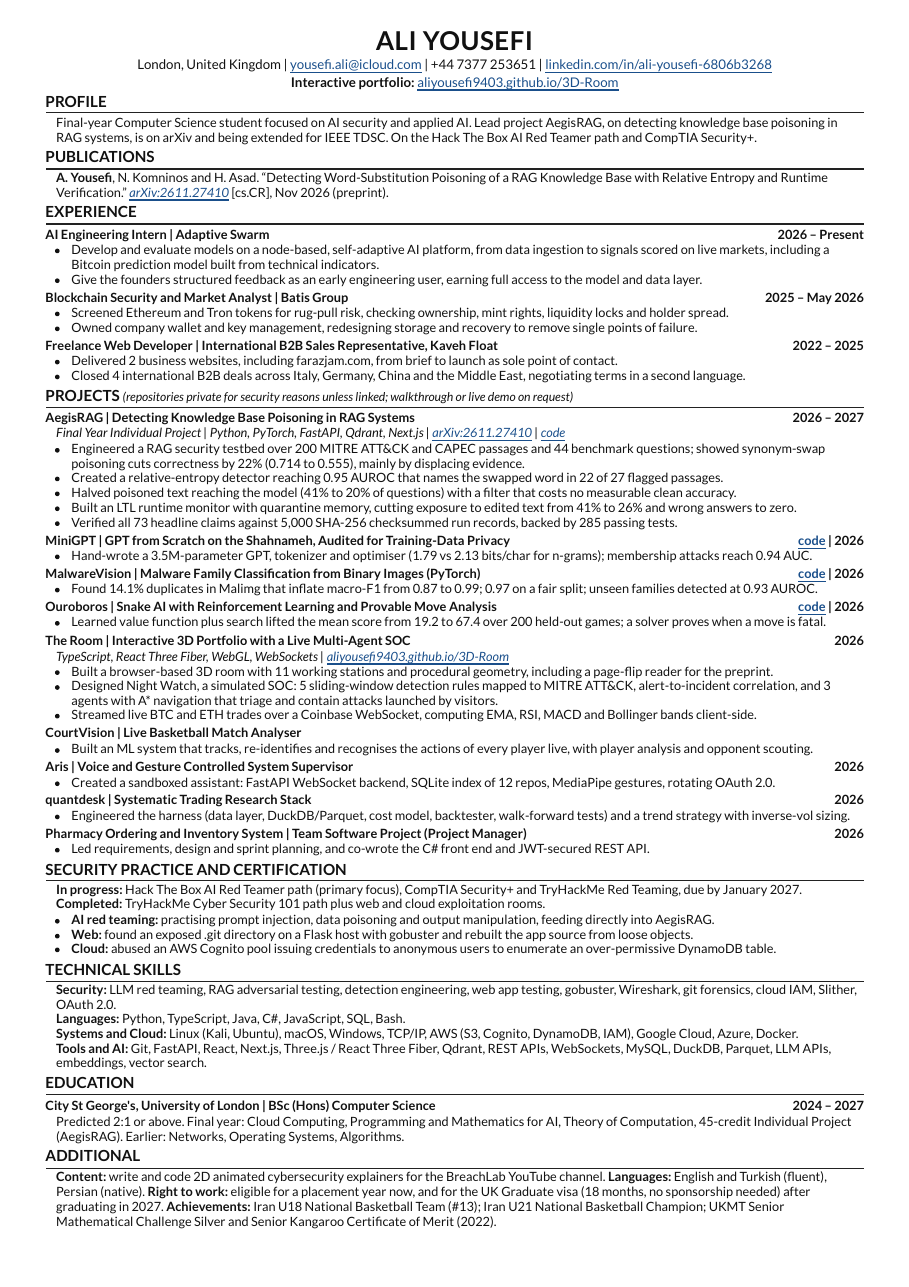
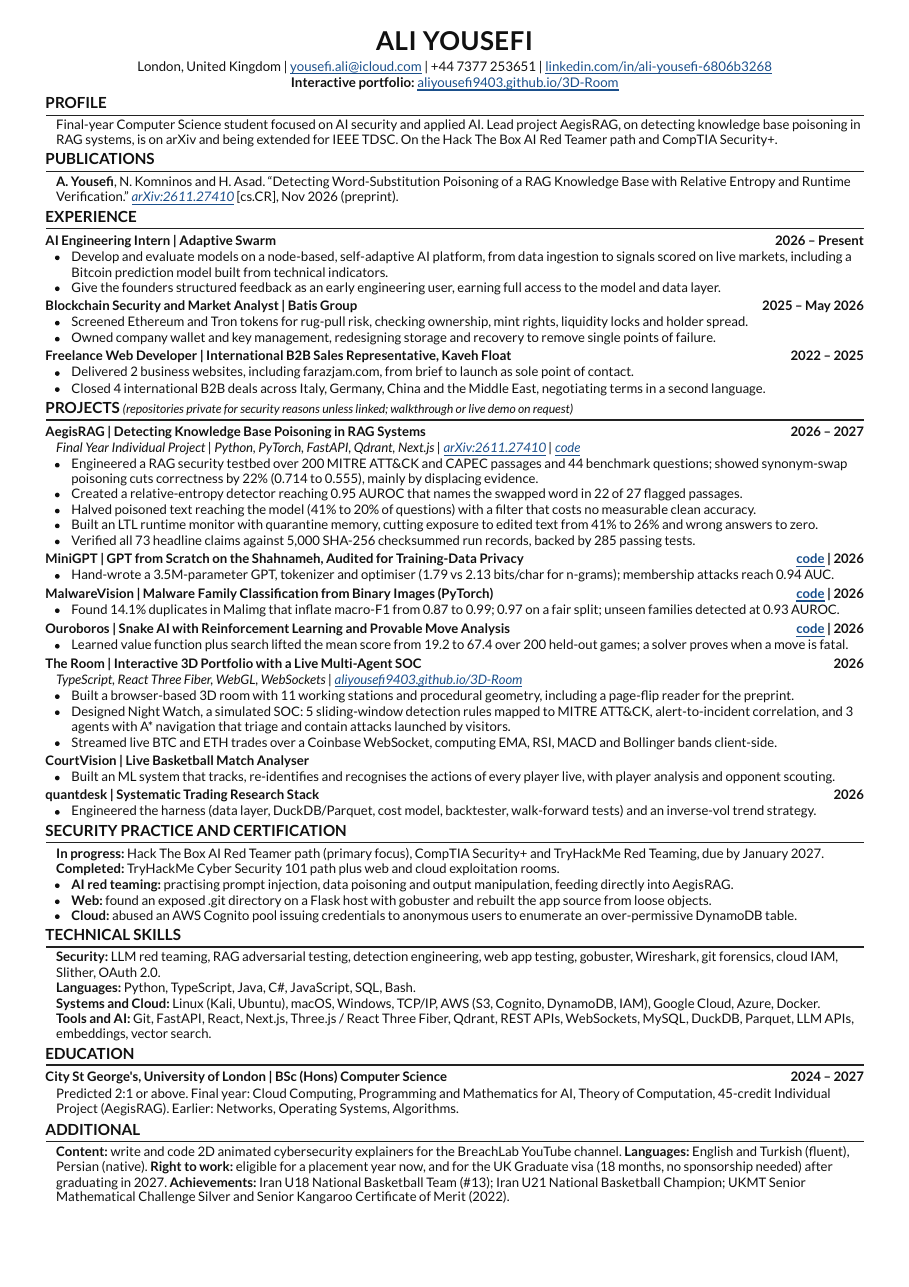
CV: remove Aris and the pharmacy project

diff --git a/cv-src/cv.html b/cv-src/cv.html
@@ -4,7 +4,7 @@
 <style>
 @page { size: A4; margin: 0; }
 * { box-sizing: border-box; }
-body { margin: 0; font-family: Lato, Carlito, Calibri, sans-serif; font-size: 8.35pt; line-height: 1.15; color: #111; }
+body { margin: 0; font-family: Lato, Carlito, Calibri, sans-serif; font-size: 8.6pt; line-height: 1.17; color: #111; }
 .page { width: 210mm; height: 297mm; padding: 6mm 10.5mm 3mm; }
 h1 { text-align: center; font-size: 17pt; letter-spacing: 0.02em; margin: 0; }
 .contact { text-align: center; font-size: 8.7pt; margin: 1pt 0 0; }
@@ -80,17 +80,9 @@ b { font-weight: 700; }
 <ul>
 <li>Built an ML system that tracks, re-identifies and recognises the actions of every player live, with player analysis and opponent scouting.</li>
 </ul>
-<div class="row"><span>Aris | Voice and Gesture Controlled System Supervisor</span><span>2026</span></div>
-<ul>
-<li>Created a sandboxed assistant: FastAPI WebSocket backend, SQLite index of 12 repos, MediaPipe gestures, rotating OAuth 2.0.</li>
-</ul>
 <div class="row"><span>quantdesk | Systematic Trading Research Stack</span><span>2026</span></div>
 <ul>
-<li>Engineered the harness (data layer, DuckDB/Parquet, cost model, backtester, walk-forward tests) and a trend strategy with inverse-vol sizing.</li>
-</ul>
-<div class="row"><span>Pharmacy Ordering and Inventory System | Team Software Project (Project Manager)</span><span>2026</span></div>
-<ul>
-<li>Led requirements, design and sprint planning, and co-wrote the C# front end and JWT-secured REST API.</li>
+<li>Engineered the harness (data layer, DuckDB/Parquet, cost model, backtester, walk-forward tests) and an inverse-vol trend strategy.</li>
 </ul>
 
 <h2>SECURITY PRACTICE AND CERTIFICATION</h2>
